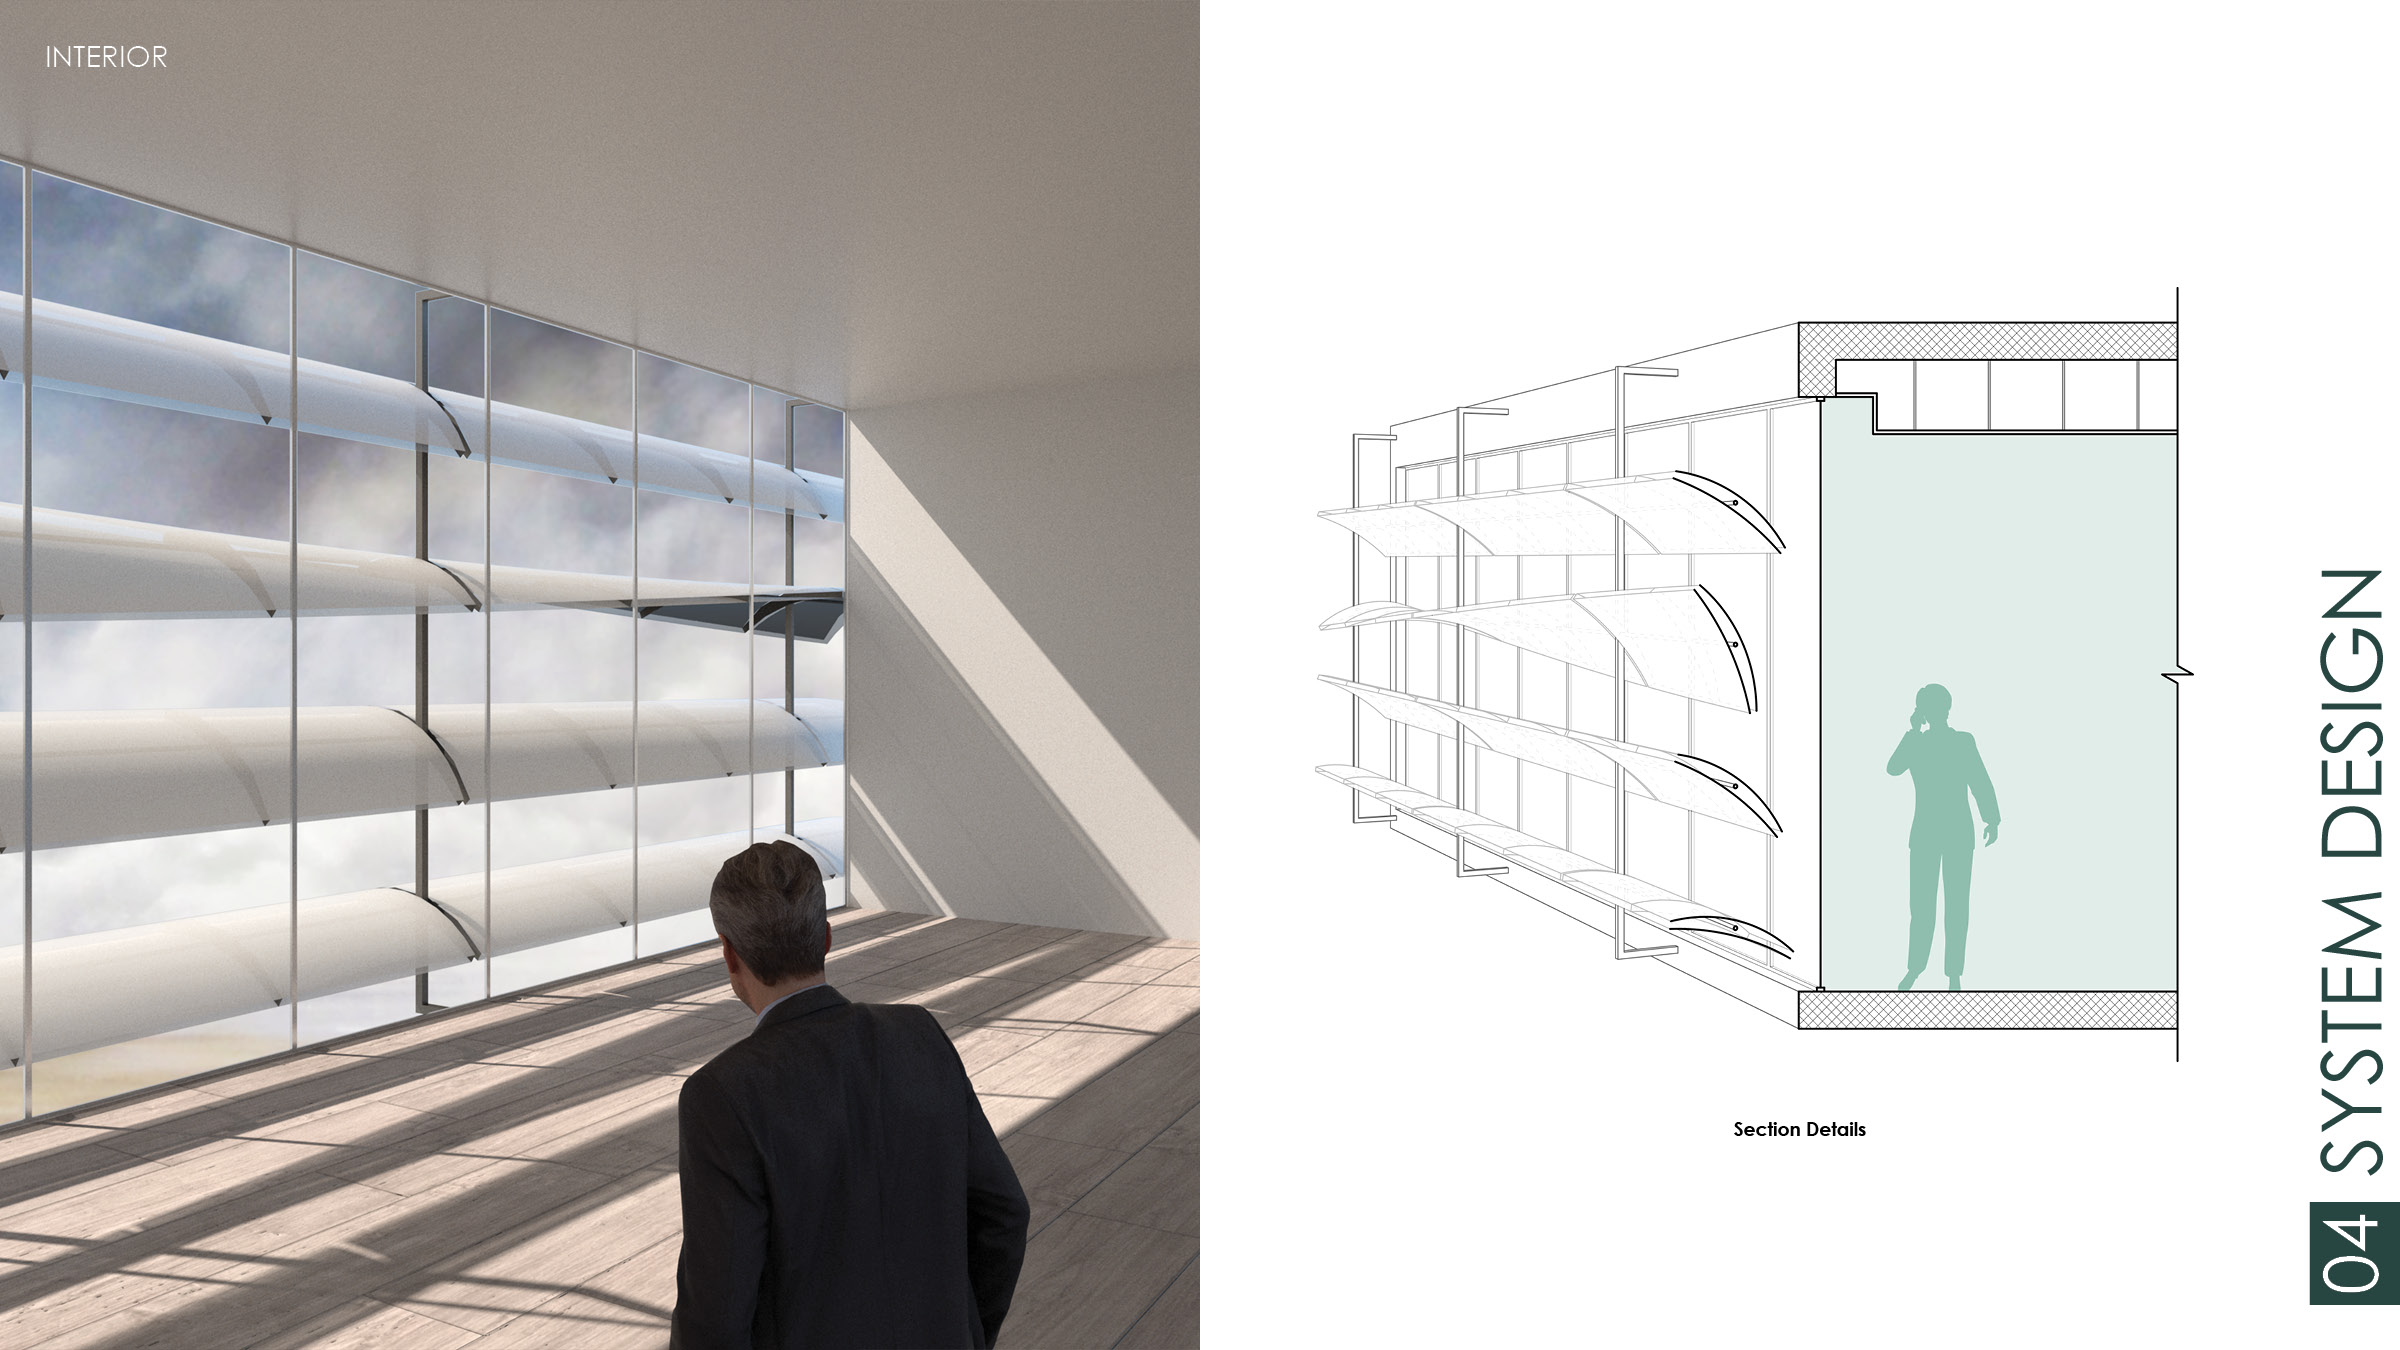
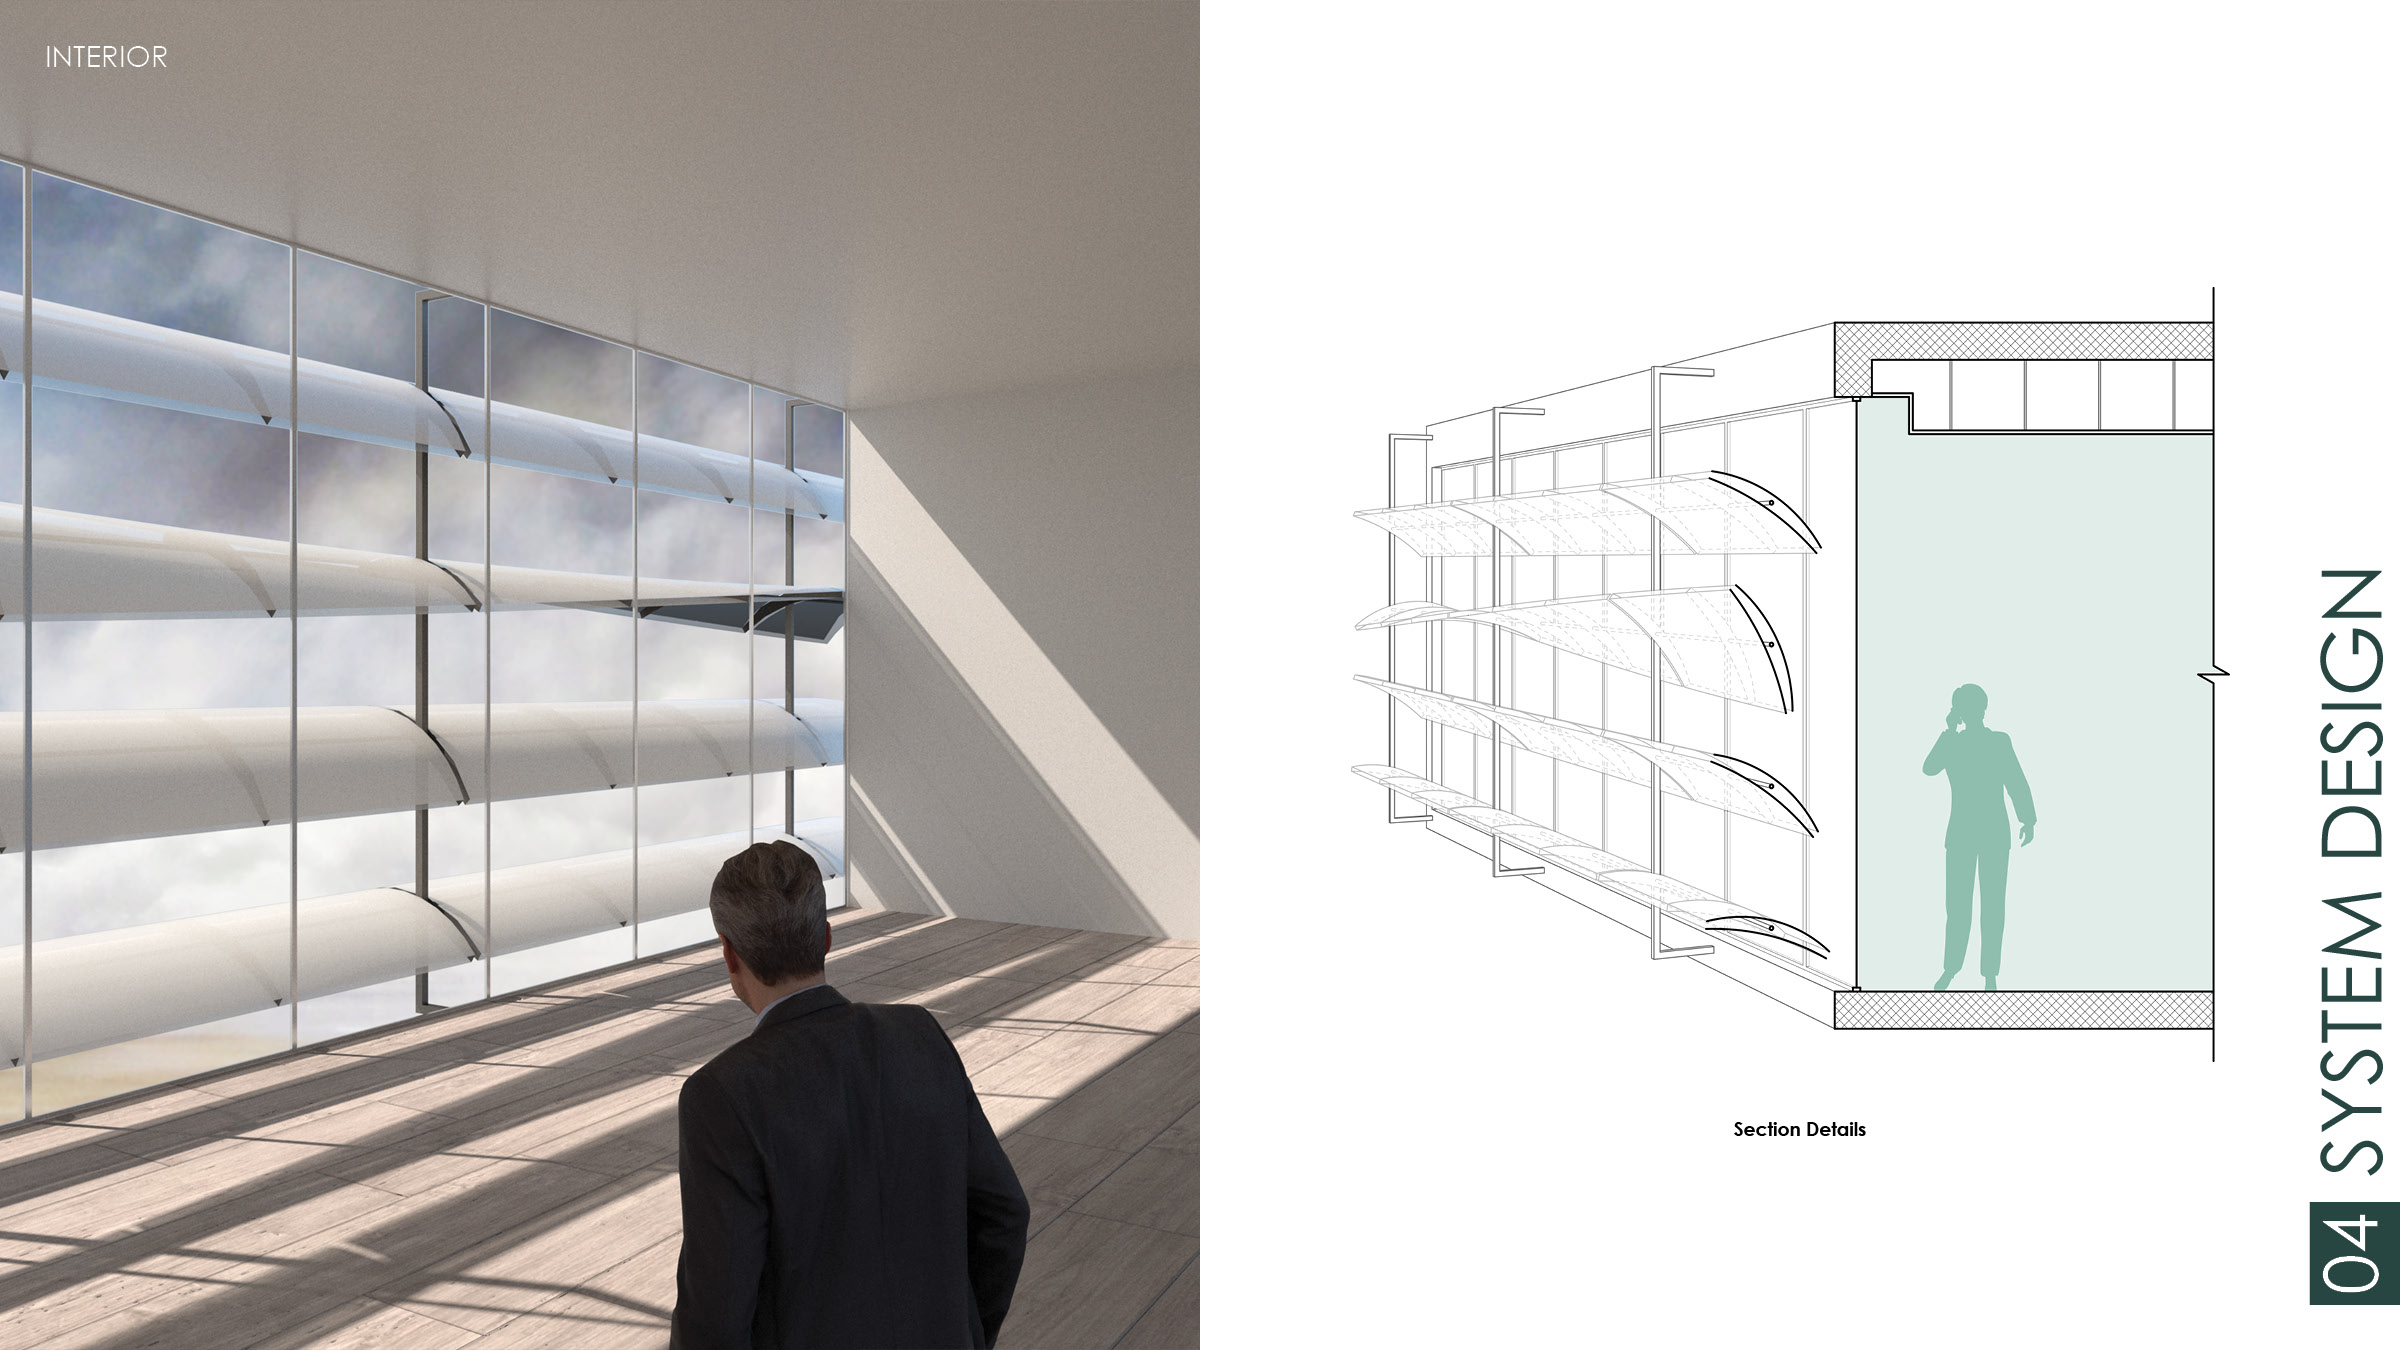
update thesis contents

Changed region(s): [[0.5625, 0.2178, 0.9375, 0.7778]]

diff --git a/thesis.html b/thesis.html
@@ -73,6 +73,8 @@
                     <div class="w3-third w3-margin-bottom">
                         <h4 class="w3-padding-16 green-color">Type: <span id="type_i" class="w3-tag green-background">Curved Straight</span></h4>
                         <input type="range" min="0" max="4" value="0" class="slider" id="type">
+                        <br>
+                        <img src="img/comp/thesis/bubble_thesis.png" alt="bubble" style="width:100%">
                     </div>
                     <div class="w3-third w3-margin-bottom">
                         <h4 class=" w3-padding-16 green-color">Division: <span id="div_i" class="w3-tag green-background">4</span></h4>
@@ -84,12 +86,11 @@
                     </div>
                 </div>
             </div>
-            <br>
+
             <!-- End interaction -->
             
             <!-- Video -->
             <!-- <h3 class=" w3-padding-16 green-color">VIDEO</h3>
-
             <div class="video-container">
                 <iframe width="640" height="360" src="https://www.youtube.com/embed/6j2RGksKR-M" frameborder="0" 
                 allow="accelerometer; autoplay; encrypted-media; gyroscope; picture-in-picture" allowfullscreen>
@@ -103,7 +104,7 @@
                     <h3 class=" w3-padding-16 green-color">INTRODUCTION</h3>
                 </div>
                 <div class="w3-twothird">
-                    <p class="w3-margin-bottom">The disciplinary theme, Responsive Architecture, was first introduced by Nicholas Negroponte during the late 1960’s. Precedents vary in different scales and technologies. And this thesis mainly focuses on the scale of facade. Unlike a lot of research and practical works only deal with the openness of the facade elements, the facade system in this thesis takes the reflection attribute of light into consideration, and aims to create a good interior light condition with sufficient and uniform light distribution.</p>
+                    <p class="w3-padding-16">The disciplinary theme, Responsive Architecture, was first introduced by Nicholas Negroponte during the late 1960’s. Precedents vary in different scales and technologies. And this thesis mainly focuses on the scale of facade. Unlike a lot of research and practical works only deal with the openness of the facade elements, the facade system in this thesis takes the reflection attribute of light into consideration, and aims to create a good interior light condition with sufficient and uniform light distribution.</p>
                 </div>
             </div>   
             <div class="w3-center w3-padding-16">
@@ -115,17 +116,15 @@
             <!-- Simulation -->
             <div class="w3-row-padding">
                 <div class="w3-third">
-                    <h3 class=" w3-padding-16 green-color">EVALUATION</h3>
+                    <h3 class=" w3-padding-16 green-color">SIMULATION</h3>
                 </div>
                 <div class="w3-twothird">
-                    <p class="w3-margin-bottom">To achieve the design target, I developed an evaluation tool to simulate the light behavior and optimize the facade geometries. For each input geometry, there is a parameter from 0 to 1 indicating the transformation of the surface. The simulation is agent-based and describes the behavior of light. It will give a grid analysis and a fitness value as the outputs. The fitness integrates both light illuminance and uniformity. Using the Genetic Algorithm, the optimization will return a set of relatively good parameters for the geometries.</p>
+                    <p class="w3-padding-16">To achieve the design target, I developed an evaluation tool to simulate the light behavior and optimize the facade geometries. For each input geometry, there is a parameter from 0 to 1 indicating the transformation of the surface. The simulation is agent-based and describes the behavior of light. It will give a grid analysis and a fitness value as the outputs. The fitness integrates both light illuminance and uniformity. Using the Genetic Algorithm, the optimization will return a set of relatively good parameters for the geometries.</p>
                     <div class="w3-center w3-padding-16">
                         <img src="img/comp/thesis/simulation_algo.png" alt="algorithm" width="100%">
                         <p class="w3-small">Figure 2 Evaluation Tool Algorithm</p>
                         <img src="img/comp/thesis/optimization.jpg" alt="optimization" width="100%">
                         <p class="w3-small">Figure 3 Single Run of Optimization</p>
-                        <!-- <img src="img/comp/thesis/design_space.png" alt="design_space" width="100%">
-                        <p class="w3-small">Figure 4 Design Space</p> -->
                     </div>
                 </div>
             </div>   
@@ -139,10 +138,10 @@
             <div class="w3-row-padding">
                 <br>
                 <div class="w3-third">
-                    <h3 class=" w3-padding-16 green-color">GEOMETRY</h3>
+                    <h3 class="w3-padding-16 green-color">GEOMETRY</h3>
                 </div>
                 <div class="w3-twothird">
-                    <p class="w3-margin-bottom">After the first run of a group of simple geometries, we can tell that horizontal and diagonal transformations work better in balancing the light intensity and uniformity. Therefore, I developed more geometries within these two categories and evaluated their behaviors through time. The last type with horizontal twisted panels works best, since it could handle a large range of sunlight angles.</p>
+                    <p class="w3-padding-16">After the first run of a group of simple geometries, we can tell that horizontal and diagonal transformations work better in balancing the light intensity and uniformity. Therefore, I developed more geometries within these two categories and evaluated their behaviors through time. The last type with horizontal twisted panels works best, since it could handle a large range of sunlight angles.</p>
                 </div>
             </div>   
 
@@ -157,7 +156,14 @@
             <!-- End simulation -->
 
             <!-- Prototype -->
-            <h3 class=" w3-padding-16 green-color">MATERIAL & PROTOTYPE</h3>
+            <div class="w3-row-padding">
+                <div class="w3-third">
+                    <h3 class=" w3-padding-16 green-color">MATERIAL & PROTOTYPE</h3>
+                </div>
+                <div class="w3-twothird">
+                    <p class="w3-padding-16">Temprary Paragraph</p>
+                </div>
+            </div>
 
             <div class="video-container">
                 <iframe width="640" height="360" src="https://www.youtube.com/embed/17LoIbkLG7s" frameborder="0" 
@@ -167,17 +173,30 @@
             <div class="w3-center w3-padding-16">
                 <img src="img/comp/thesis/prototype_drawing.jpg" alt="prototype" width="100%">
                 <p class="w3-small">Figure 8 Prototype Explosion Drawing</p>
-                <img src="img/comp/thesis/profile_design.jpg" alt="profile_design" width="80%">
+                <img src="img/comp/thesis/profile_design.jpg" alt="profile_design" width="70%">
                 <p class="w3-small">Figure 9 Profile Design</p>
             </div>
             <!-- End prototype -->
 
             <!-- System -->
-            <h3 class=" w3-padding-16 green-color">SYSTEM DESIGN</h3>
+            <div class="w3-row-padding">
+                <div class="w3-third">
+                    <h3 class=" w3-padding-16 green-color">SYSTEM DESIGN</h3>
+                </div>
+                <div class="w3-twothird">
+                    <p class="w3-padding-16">Temprary Paragraph</p>
+                    <div class="w3-center w3-padding-16">
+                        <img src="img/comp/thesis/section.jpg" alt="section" width="100%">
+                        <p class="w3-small">Figure 10 Section Details</p>
+                    </div>
+                </div>
+            </div>
 
             <div class="w3-center w3-padding-16">
-                <img src="img/comp/thesis/final.gif" alt="system" width="100%">
-                <p class="w3-small">Figure 10 System Design Rendering</p>
+                <img src="img/comp/thesis/render_0_1_1.gif" alt="system" width="100%">
+                <p class="w3-small">Figure 11 Interior Animation</p>
+                <img src="img/comp/thesis/application.gif" alt="application" width="100%">
+                <p class="w3-small">Figure 12 System Application to Highrise and Multistorey Buildings</p>
             </div>
             <!-- End system -->
 

diff --git a/comp.html b/comp.html
@@ -91,7 +91,7 @@
                 <div class="w3-row-padding">
                     <a href="thesis.html" class="w3-third w3-container w3-margin-bottom">
                         <div class="w3-display-container">
-                            <img src="img/comp/photonFacade.png" alt="PhotonFacade" style="width:100%" class="w3-hover-opacity">
+                            <img src="img/comp/photonFacade.gif" alt="PhotonFacade" style="width:100%" class="w3-hover-opacity">
                             <div class="w3-display-hover w3-display-middle w3-text-white">Photon Facade</div>
                         </div>
                     </a>

diff --git a/index.html b/index.html
@@ -63,7 +63,7 @@
         var myVar;
 
         function load() {
-            myVar = setTimeout(showPage, 2000);
+            myVar = setTimeout(showPage, 500);
         }
 
         function showPage() {
